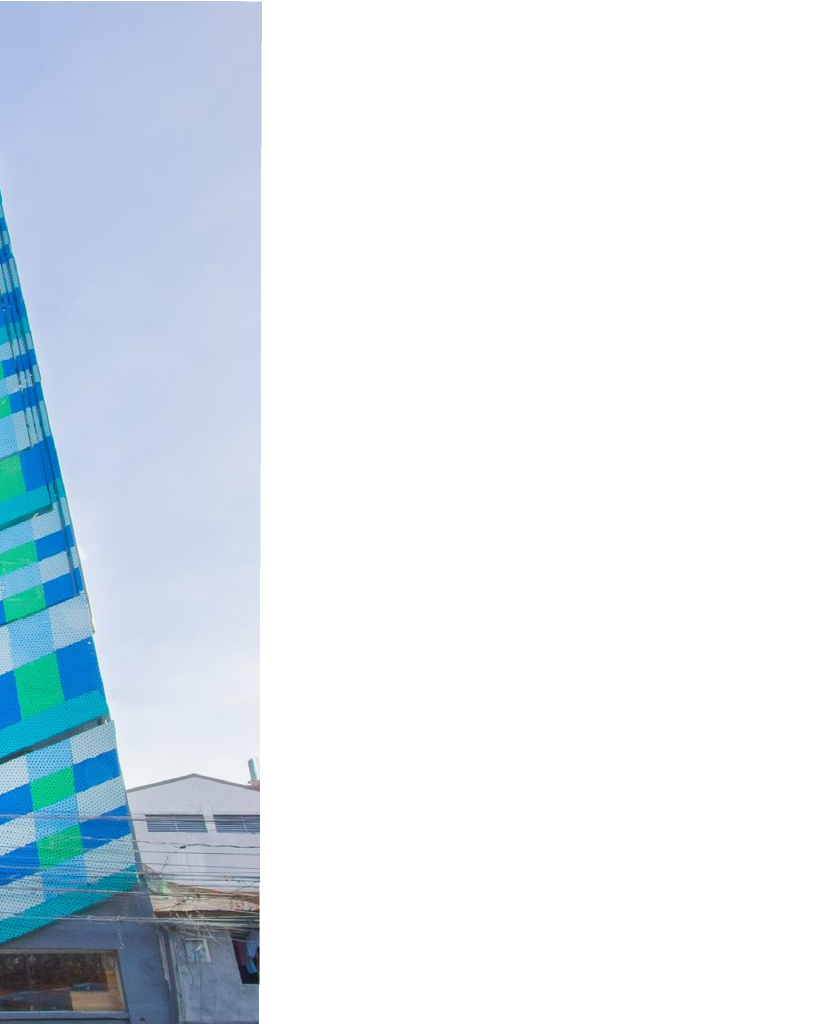
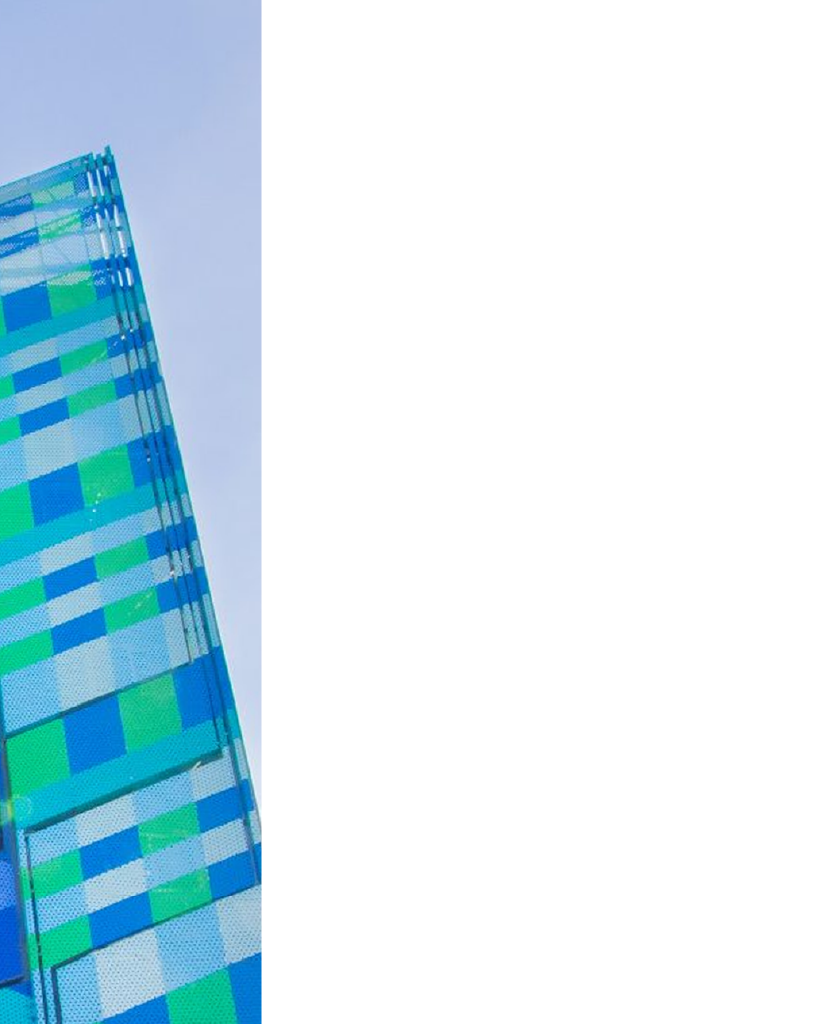
updated images

Changed region(s): [[0.0, 0.125, 0.3358, 1.0]]

diff --git a/assets/js/script.js b/assets/js/script.js
@@ -2699,7 +2699,7 @@ async function initialize() {
 
   bookPages.push({
     html: `
-    <img class="background-image" style="opacity: 0.2" src="./assets/img/test.jpg">
+    <img class="background-image" style="opacity: 0.5" src="./assets/img/bg.jpg">
     <img class="background-image" src="./assets/img/the-graduates.png">
     `,
   });
